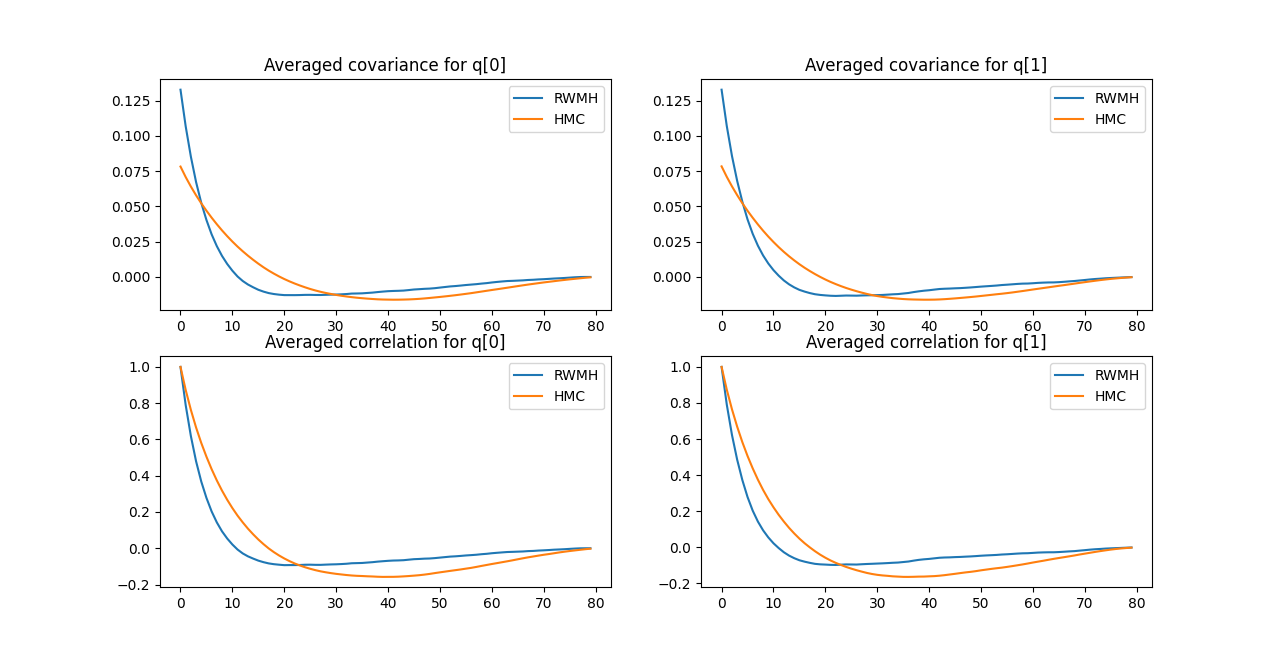
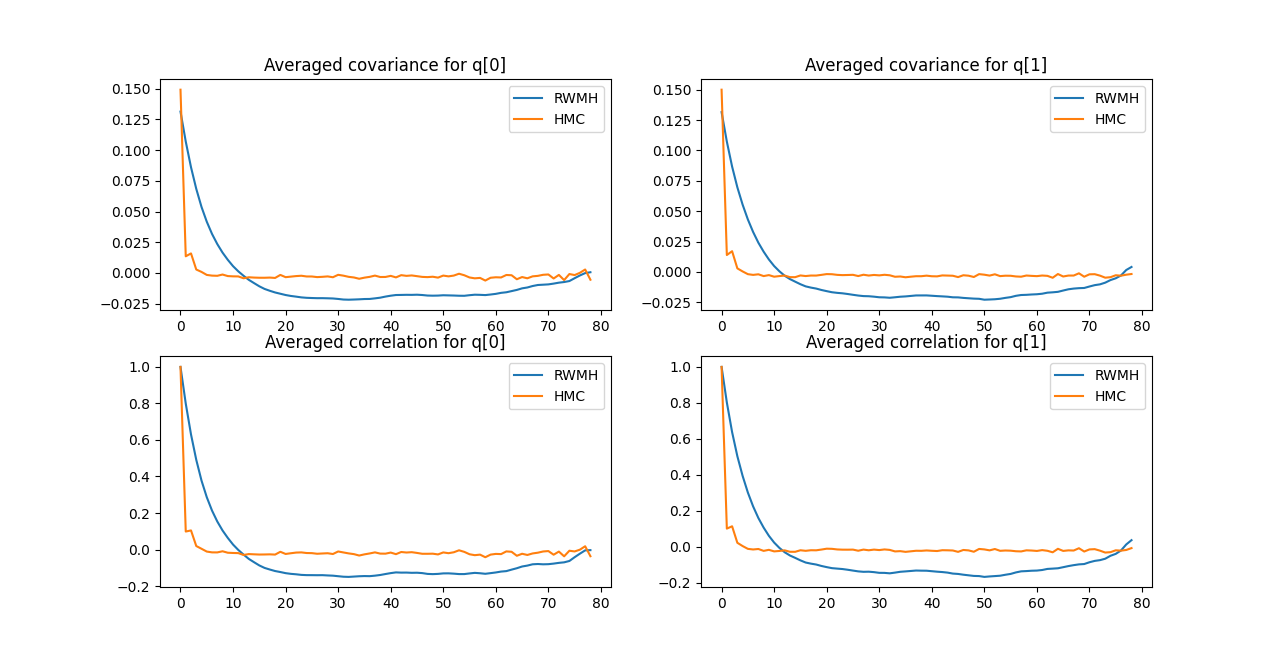
Improved figures

diff --git a/src/d.py b/src/d.py
@@ -52,11 +52,11 @@ def autocovariance(X): # X is only the tail of q after the burn-in
         
     return cov
 
-def autocorrelation(autocov):
+def autocorrelation(autocov):   
     corr = np.zeros(np.shape(autocov))
     for i in range(int(len(autocov[0, :, 0]))):
-        corr[:, i, 0] = np.divide(autocov[:, i, 0], autocov[:, 0, 0])
-        corr[:, i, 1] = np.divide(autocov[:, i, 1], autocov[:, 0, 1])
+        corr[:, i, 0] = np.divide(autocov[:, i, 0], np.maximum(np.abs(autocov[:, 0, 0]), np.finfo(np.float64).eps))
+        corr[:, i, 1] = np.divide(autocov[:, i, 1], np.maximum(np.abs(autocov[:, 0, 1]), np.finfo(np.float64).eps))
     #corr_2 = np.divide(autocov[:, :, 1], autocov[:, 0, 1])
     #corr = np.concatenate(corr_1, corr_2, axis=2)
     return corr
@@ -70,12 +70,12 @@ def get_M(autocov): # check adaptation of function for  2 dimensions
     if M1 is None:
         M1 = int(len(autocov[:, 0])-2)
     M2 = None
-    for k in range(int(len(autocov[:, 1])/2)):
-        if ((autocov[2*k, 1] + autocov[2*k+1, 1])<=0) :
-            M2 = 2*k
+    for j in range(int(len(autocov[:, 1])/2)):
+        if ((autocov[2*j, 1] + autocov[2*j+1, 1])<=0) :
+            M2 = 2*j
             break
     if M2 is None:
-        M2 = int(len(autocov[:, 0])-2)
+        M2 = int(len(autocov[:, 1])-2)
     
     return M1, M2
 
@@ -95,7 +95,9 @@ def effective_sample_size(autocov):
     for i in range(n):
         sigma = get_sigma(autocov[i, :, :])
         #print("Sigma=", sigma, ", c0=", autocov[i, 0, :], ", N=", N)
-        ess[i, :] = N*np.divide(autocov[i, 0, :], sigma)
+        ess[i, 0] = N*np.divide(autocov[i, 0, 0], np.maximum(sigma[0],  np.finfo(np.float64).eps))
+        ess[i, 1] = N*np.divide(autocov[i, 0, 1], np.maximum(sigma[1],  np.finfo(np.float64).eps))
+
     return ess
 
 
@@ -146,11 +148,11 @@ def Hamiltonian_Monte_Carlo(q0, m, N, T, eps, alpha):
 def main():
     q0 = [0.0, 0.0] # idea: change q0, if q0 follow the objective distribution, then q should follow the distribution at any time
     eps = 0.01
-    alpha = 10**1
+    alpha = 10**3
     m = [1, 1]
-    T = 0.10
-    N = 80
-    sigma = 0.1
+    T = 0.1
+    N = 100
+    sigma = 0.4
     
     
     n = 1000
@@ -165,7 +167,7 @@ def main():
 
     
     for i in range(n):
-        q0 = [0.5, 0.5]+np.random.normal(size=2)/2
+        #q0 = [0.5, 0.5]+np.random.normal(size=2)/2
         q_ham, ratio[i] = Hamiltonian_Monte_Carlo(q0, m, N, T, eps, alpha)
         q, _ = Metropolis_Hastings(q0, N, alpha, sigma)
         final_q[i, :] = q[-1, :]
@@ -203,7 +205,7 @@ def main():
     tail_q_ham = big_q_ham[:, idx, :]
     var_tail_q = np.var(tail_q, axis=0)
     print("Calculating covariance...")
-    cov = np.zeros(np.shape(tail_q))
+    cov = np.zeros([n, len(idx)-1, 2])
     for i in range(n):
         cov[i, :, :] = autocovariance(tail_q[i, :, :])
     print("Calculating correlation...")

diff --git a/src/ess.py b/src/ess.py
@@ -1,25 +1,27 @@
 from d import*
 
 def main():
-    alpha = 10**1
+    alpha = 10**3
     q0 = [0, 0]
     q0_type = "Dirac" # Dirac or Normal
     offset = False #Offset of q0 [0.5, 0.5]
 
-    number = 20
+    number = 11 # 16
 
     #N = 80 #length of the chain
-    vector_N = np.ndarray.astype(np.floor(np.linspace(30, 200, number)), dtype=int)
+    vector_N = np.ndarray.astype(np.floor(np.linspace(70, 470, number)), dtype=int)
+    vector_N2 = 20*vector_N
     #vector_N =np.asarray([50, 50, 50])
     #print(vector_N)
 
-    n = 50
+    n = 1 #200
     #vector_n = np.ndarray.astype(np.floor(np.linspace(200, 1000, number)), dtype=int) #number of chains simulated
     
     eps = 0.01
-    m = [1, 1]
-    T = 0.05
+    m = [0.1, 0.1]
+    T = 0.2
     
+
     sigma = 0.1
 
 
@@ -29,27 +31,28 @@ def main():
     k=0
 
     for N in vector_N:
-        B = 15
-        big_q = np.zeros([n, N+1, 2])
+        B = 50
+        big_q = np.zeros([n, vector_N2[k]+1, 2])
         big_q_ham = np.zeros([n, N+1, 2])
         for i in range(n):
             if (q0_type=="Normal"):
                 q0 = np.random.normal(size=2)/4
             if offset:
-                q0 = q0+[0.5, 0.5]
+                q0 = q0+np.asarray([0.5, 0.5])
             q_ham, _ = Hamiltonian_Monte_Carlo(q0, m, N, T, eps, alpha)
-            q, _ = Metropolis_Hastings(q0, N, alpha, sigma)
+            q, _ = Metropolis_Hastings(q0, vector_N2[k], alpha, sigma)
             
             big_q[i, :, :] = q
             big_q_ham[i, :, :] = q_ham
         
         idx = B+np.asarray(range(N-B))
+        idx_2 = B+np.asarray(range(vector_N2[k]-B))
         #print(idx)
-        tail_q = big_q[:, idx, :]
+        tail_q = big_q[:, idx_2, :]
         tail_q_ham = big_q_ham[:, idx, :]
 
 
-        cov = np.zeros([n, len(idx)-1, 2])
+        cov = np.zeros([n, len(idx_2)-1, 2])
         #print(np.shape(cov))
         cov_ham = np.zeros([n, len(idx)-1, 2])
         for i in range(n):
@@ -65,8 +68,8 @@ def main():
         k=k+1
 
     fig, ax = plt.subplots(2, 2)
-    ax[0, 0].plot(2*2*vector_N, ESS[:, 0])
-    ax[0, 1].plot(2*2*vector_N, ESS[:, 1])
+    ax[0, 0].plot(2*2*vector_N2, ESS[:, 0])
+    ax[0, 1].plot(2*2*vector_N2, ESS[:, 1])
     ax[1, 0].plot((2+np.floor(T/eps)*4*vector_N), ESS_ham[:, 0])
     ax[1, 1].plot((2+np.floor(T/eps)*4*vector_N), ESS_ham[:, 1])
     ax[0, 0].set_title("ESS q[0], RWMH")

diff --git a/src/graphs_autocorrelation.py b/src/graphs_autocorrelation.py
@@ -5,21 +5,21 @@ from d import*
 
 def main():
 
-    alpha = 10**1
+    alpha = 10**3
     q0 = [0, 0]
     q0_type = "Dirac" # Dirac or Normal
     offset = False #Offset of q0 [0.5, 0.5]
 
-    N = 100 #length of the chain
-    n = 1000 #number of chains simulated
+    N = 200 #length of the chain
+    n = 100 #number of chains simulated
     
     eps = 0.01
-    m = [1, 1]
+    m = [0.1, 0.1]
     T = 0.1
     
     sigma = 0.1
     
-    B = 20
+    B = 50
     
     final_q = np.zeros([n, 2])
     final_q_ham = np.zeros([n, 2])
@@ -34,9 +34,9 @@ def main():
     
     for i in range(n):
         if (q0_type=="Normal"):
-            q0 = np.random.normal(size=2)/4
+            q0 = np.random.normal(size=2)/2
         if offset:
-            q0 = q0+[0.5, 0.5]
+            q0 = q0+np.asarray([0.5, 0.5])
         q_ham, ratio_ham[i] = Hamiltonian_Monte_Carlo(q0, m, N, T, eps, alpha)
         q, ratio[i] = Metropolis_Hastings(q0, N, alpha, sigma)
         final_q[i, :] = q[-1, :]

diff --git a/src/graphs_density.py b/src/graphs_density.py
@@ -141,17 +141,17 @@ if __name__=="__main__":
     offset = False #Offset of q0 [0.5, 0.5]
 
     N = 100 #length of the chain
-    n = 1000 #number of chains simulated
+    n = 2000 #number of chains simulated
     
     eps = 0.01
-    m = [1, 1]
+    m = [0.1, 0.1]
     T = 0.1
     
     sigma = 0.1
     
     B = 20
     
-    plot=["Density_all"]
+    plot=["Density_all", "Density_end", "HMC"]
     main(alpha, q0, N, n, eps, m, T, sigma, B, plot, q0_type="Dirac", offset=False)
 
     m = [5, 5]
